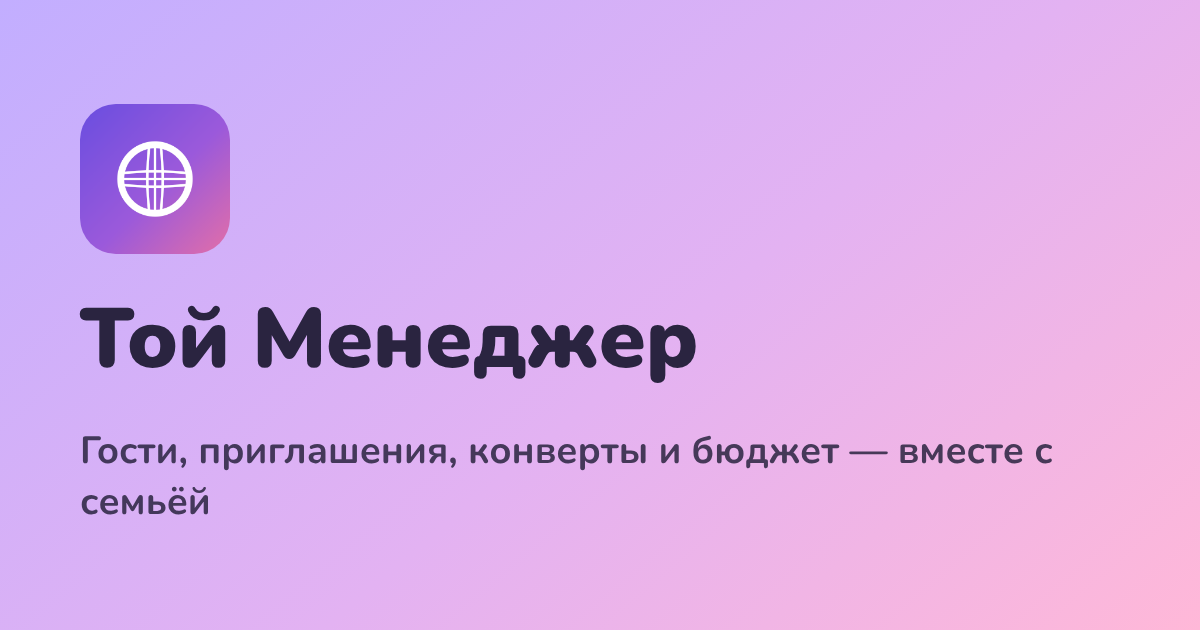
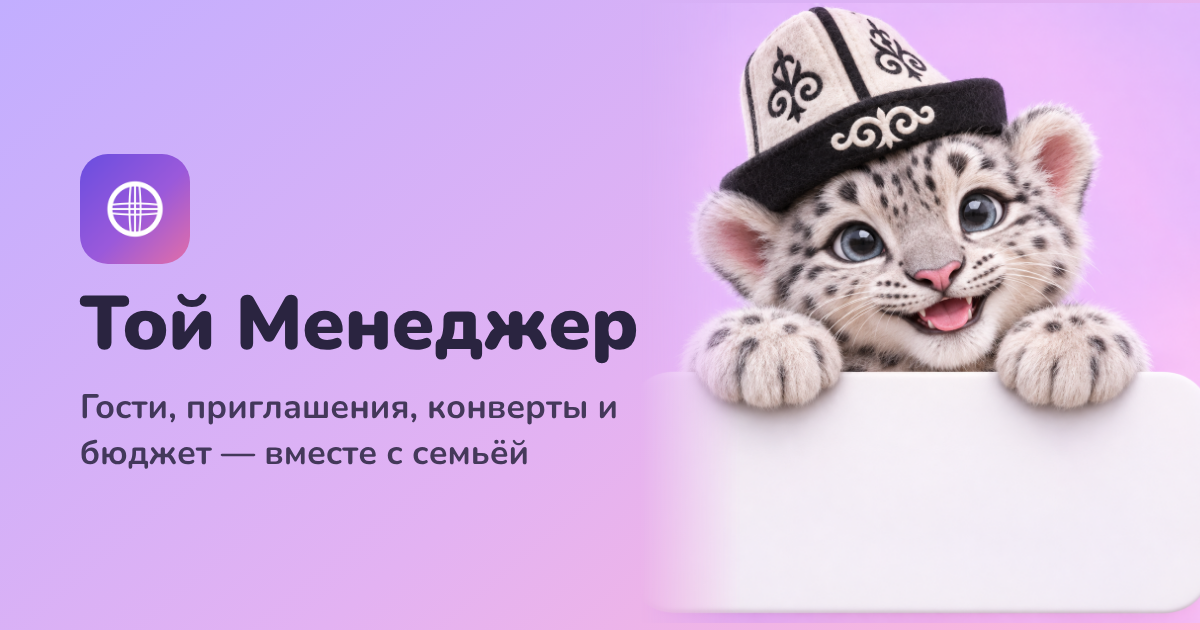
Барсёнок на сайте
Claude-Session: https://claude.ai/code/session_01Jx6LeccEXJdHGmuEJJs3tw

diff --git a/index.html b/index.html
@@ -19,9 +19,13 @@
 <main class="wrap stack">
   <div class="top"><span class="brand"><img src="icon-192.png" alt=""><span>Той Менеджер</span></span></div>
 
-  <section class="hero stack">
-    <h1>Весь той —<br>в одном приложении</h1>
-    <p style="opacity:.95">Гости, приглашения, конверты и бюджет. Вместе с семьёй, без тетрадок и таблиц.</p>
+  <section class="peek">
+    <img src="cub.webp" width="720" height="482" alt="Барсёнок в калпаке">
+    <div class="card stack">
+      <h1>Весь той —<br>в одном приложении</h1>
+      <p class="muted">Гости, приглашения, конверты и бюджет. Вместе с семьёй, без тетрадок и таблиц.</p>
+    </div>
+    <img class="paws" src="cub.webp" width="720" height="482" alt="">
   </section>
 
   <section class="card feat">

diff --git a/i/index.html b/i/index.html
@@ -40,10 +40,14 @@
 
   <!-- основное -->
   <section id="main" class="stack" hidden>
-    <div class="hero">
-      <div class="eyebrow" data-t="invite">Приглашение</div>
-      <h1 id="title"></h1>
-      <p class="greet" id="greet"></p>
+    <div class="peek">
+      <img src="../cub.webp" width="720" height="482" alt="Барсёнок в калпаке">
+      <div class="card">
+        <div class="label" data-t="invite">Приглашение</div>
+        <h1 id="title" style="margin-top:4px"></h1>
+        <p class="greet" id="greet" style="margin-top:10px;font-size:17px"></p>
+      </div>
+      <img class="paws" src="../cub.webp" width="720" height="482" alt="">
     </div>
 
     <div class="card">

diff --git a/style.css b/style.css
@@ -90,3 +90,8 @@ footer a { color: var(--muted); }
 .feat { display: grid; gap: 10px; }
 [hidden] { display: none !important; }
 @media (prefers-reduced-motion: reduce) { .skeleton { animation: none; } }
+/* Барсёнок выглядывает из-за карточки: картинка дважды — снизу целиком, сверху только лапы поверх карточки */
+.peek { position: relative; }
+.peek > img { display: block; width: 100%; height: auto; }
+.peek > img.paws { position: absolute; top: 0; left: 0; pointer-events: none; }
+.peek > .card { margin: -7.33% 3% 0; padding-top: calc(7.33% + 14px); border-radius: 26px; }
